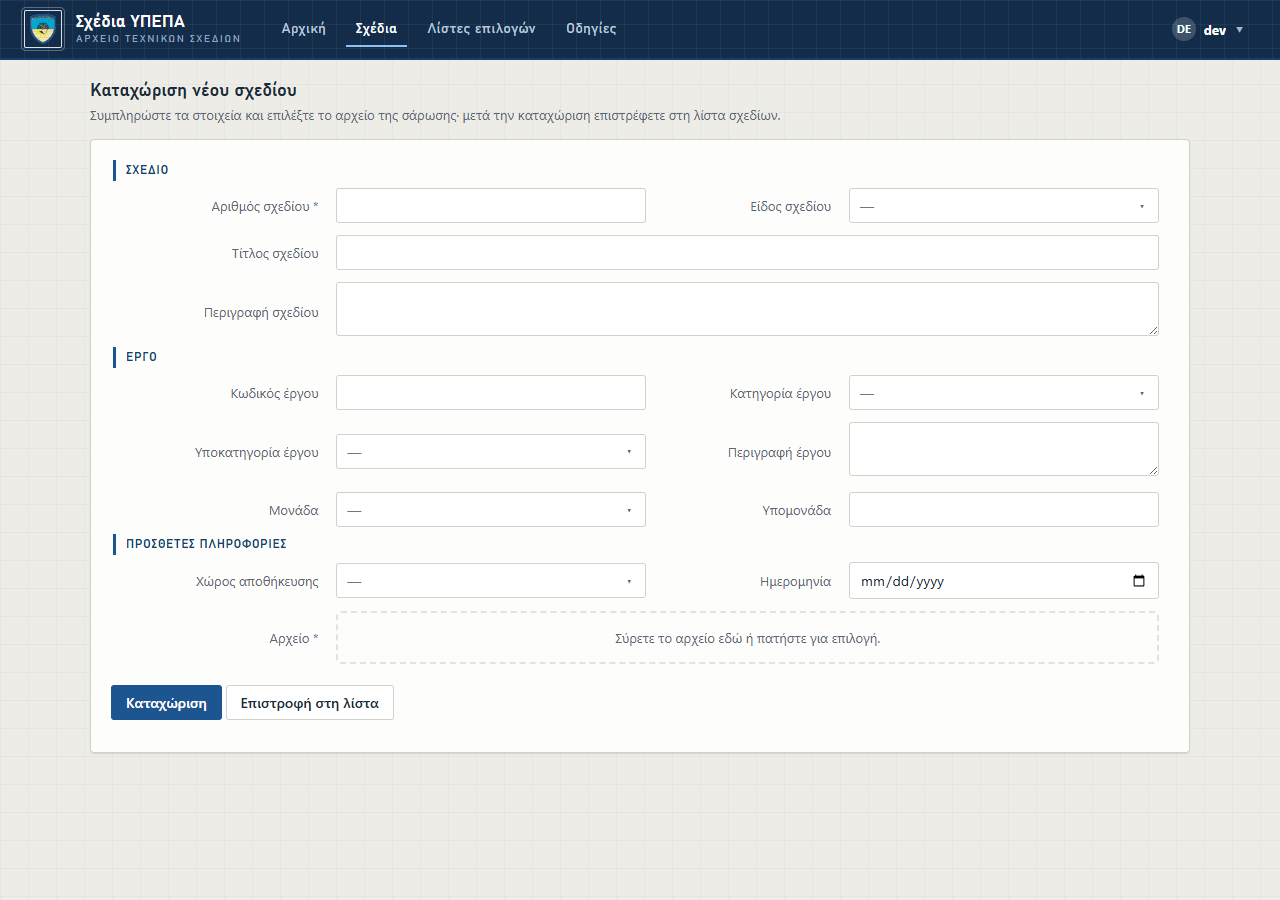
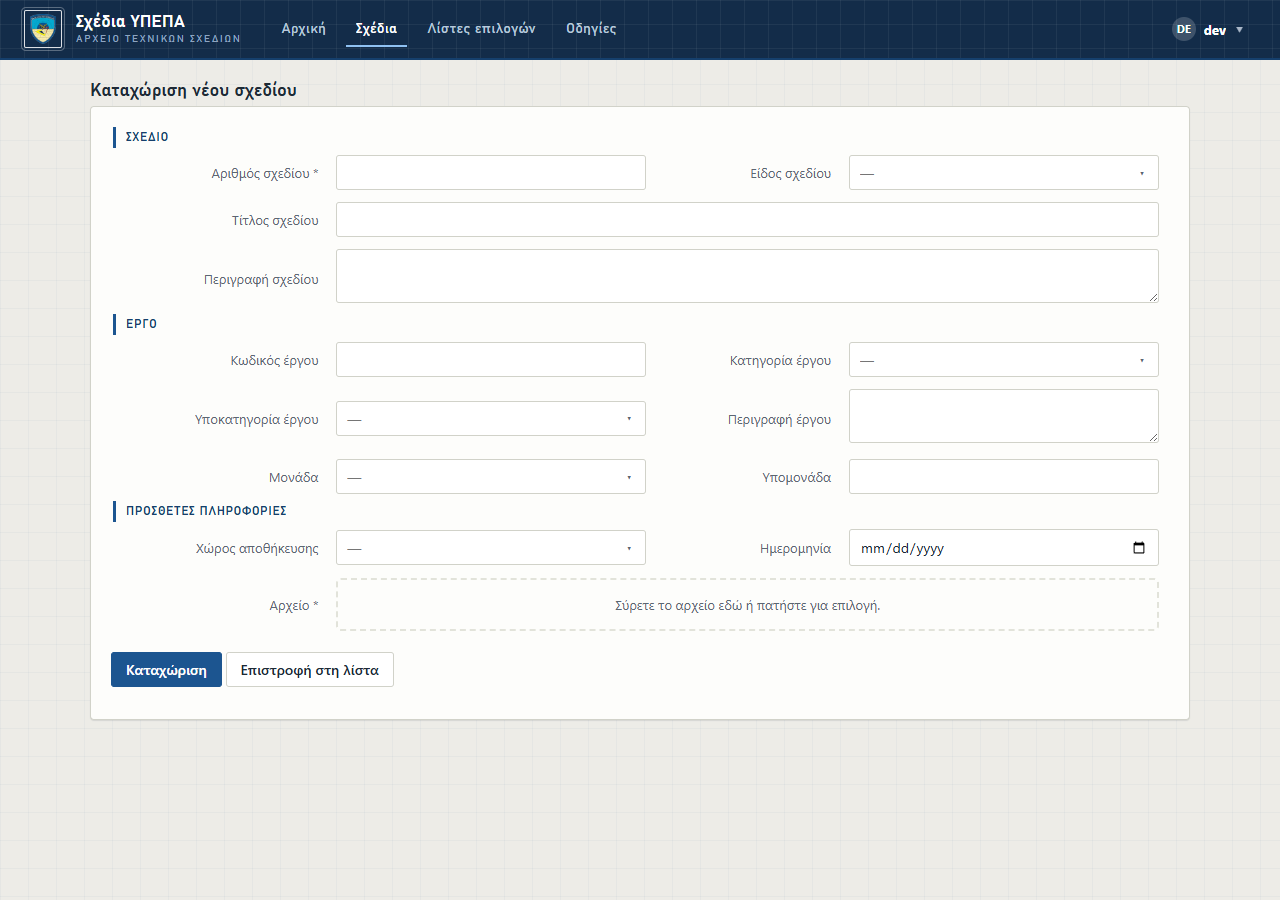
Drop the intro subtitles from the import pages and the manual
The pages explain themselves; the note under the title repeated what the
form already shows. Manual screenshots recaptured without it.

Claude-Session: https://claude.ai/code/session_01R7pFMnkCDgPLh8CUcZuE64

diff --git a/frontend/src/drawings/import/MassImportPage.tsx b/frontend/src/drawings/import/MassImportPage.tsx
@@ -78,10 +78,6 @@ export default function MassImportPage() {
   return (
     <div className="import-page">
       <h2 className="page-title">Μαζική καταχώριση σχεδίων</h2>
-      <p className="page-note">
-        Επιλέξτε πολλά αρχεία, συμπληρώστε μία φορά τα κοινά στοιχεία και, όπου χρειάζεται,
-        διαφοροποιήστε ανά αρχείο. Κάθε αρχείο καταχωρείται ως ξεχωριστό σχέδιο.
-      </p>
       <section className={'card mass-card' + (q.running ? ' is-busy' : '')} aria-busy={q.running}>
         {/* ---- common properties ---- */}
         <div className="mass-section">

diff --git a/frontend/src/pages/ManualPage.tsx b/frontend/src/pages/ManualPage.tsx
@@ -435,10 +435,6 @@ export default function ManualPage() {
           Εκτύπωση / PDF
         </button>
       </div>
-      <p className="page-note">
-        Πώς λειτουργεί η εφαρμογή: σύνδεση, αναζήτηση, προβολή και επεξεργασία σχεδίων, καταχώριση
-        (απλή και μαζική), λίστες επιλογών. Η τελευταία καρτέλα δείχνει την έκδοση και το ιστορικό αλλαγών.
-      </p>
       <div className="tabs manual-tabs" role="tablist">
         {SECTIONS.map((s) => (
           <button key={s.key} role="tab" aria-selected={s.key === selected}

diff --git a/frontend/src/drawings/import/ImportPage.tsx b/frontend/src/drawings/import/ImportPage.tsx
@@ -115,10 +115,6 @@ export default function ImportPage() {
   return (
     <div className="import-page">
       <h2 className="page-title">Καταχώριση νέου σχεδίου</h2>
-      <p className="page-note">
-        Συμπληρώστε τα στοιχεία και επιλέξτε το αρχείο της σάρωσης· μετά την καταχώριση
-        επιστρέφετε στη λίστα σχεδίων.
-      </p>
       <section className={'card import-card' + (busy ? ' is-busy' : '')} aria-busy={busy}>
         <form onSubmit={submit} noValidate>
           <MetaForm values={values} lookups={lookups}
